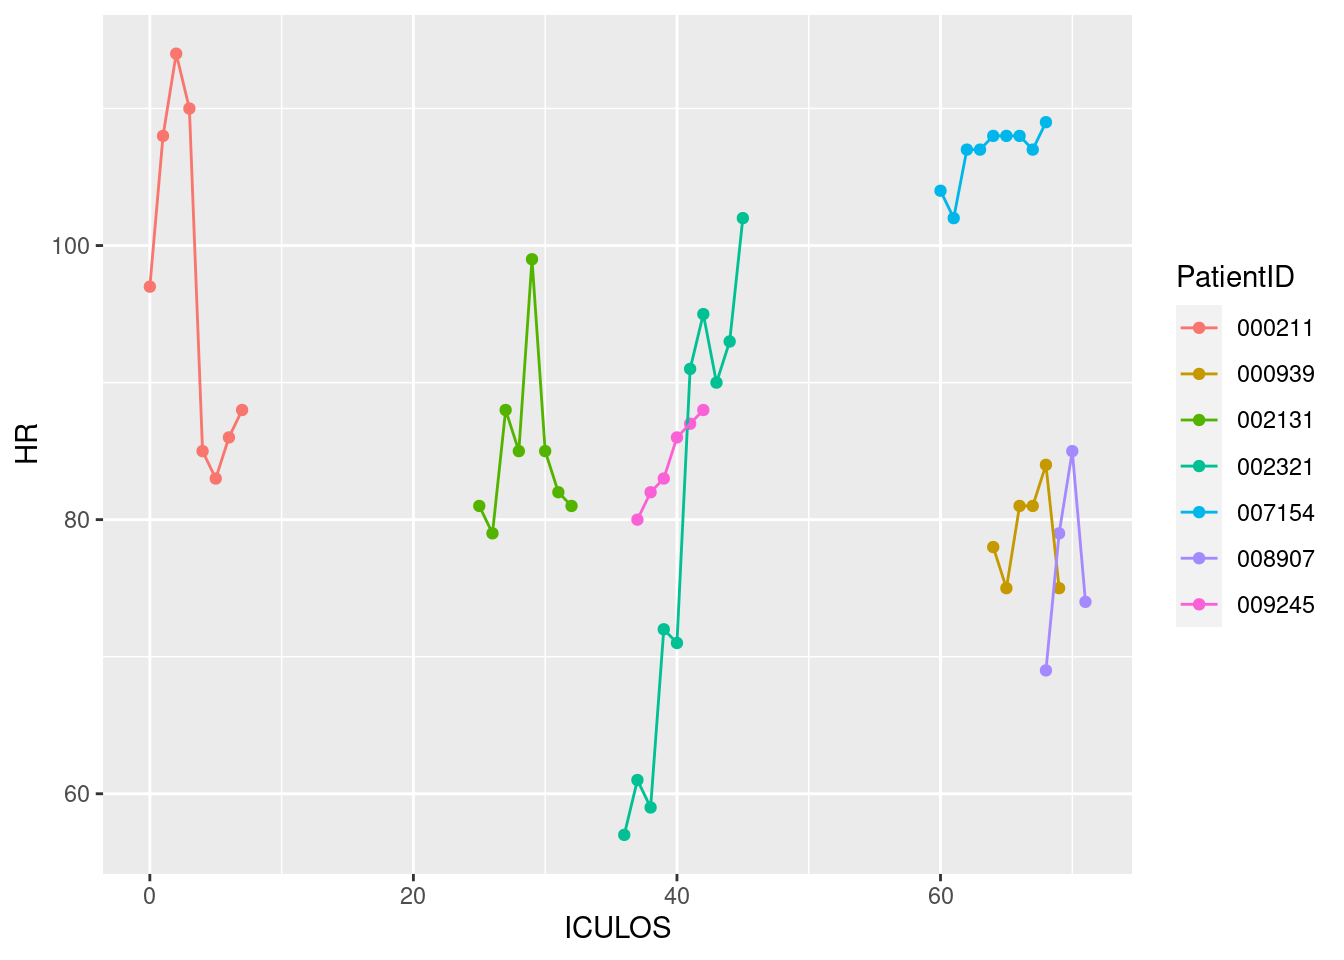
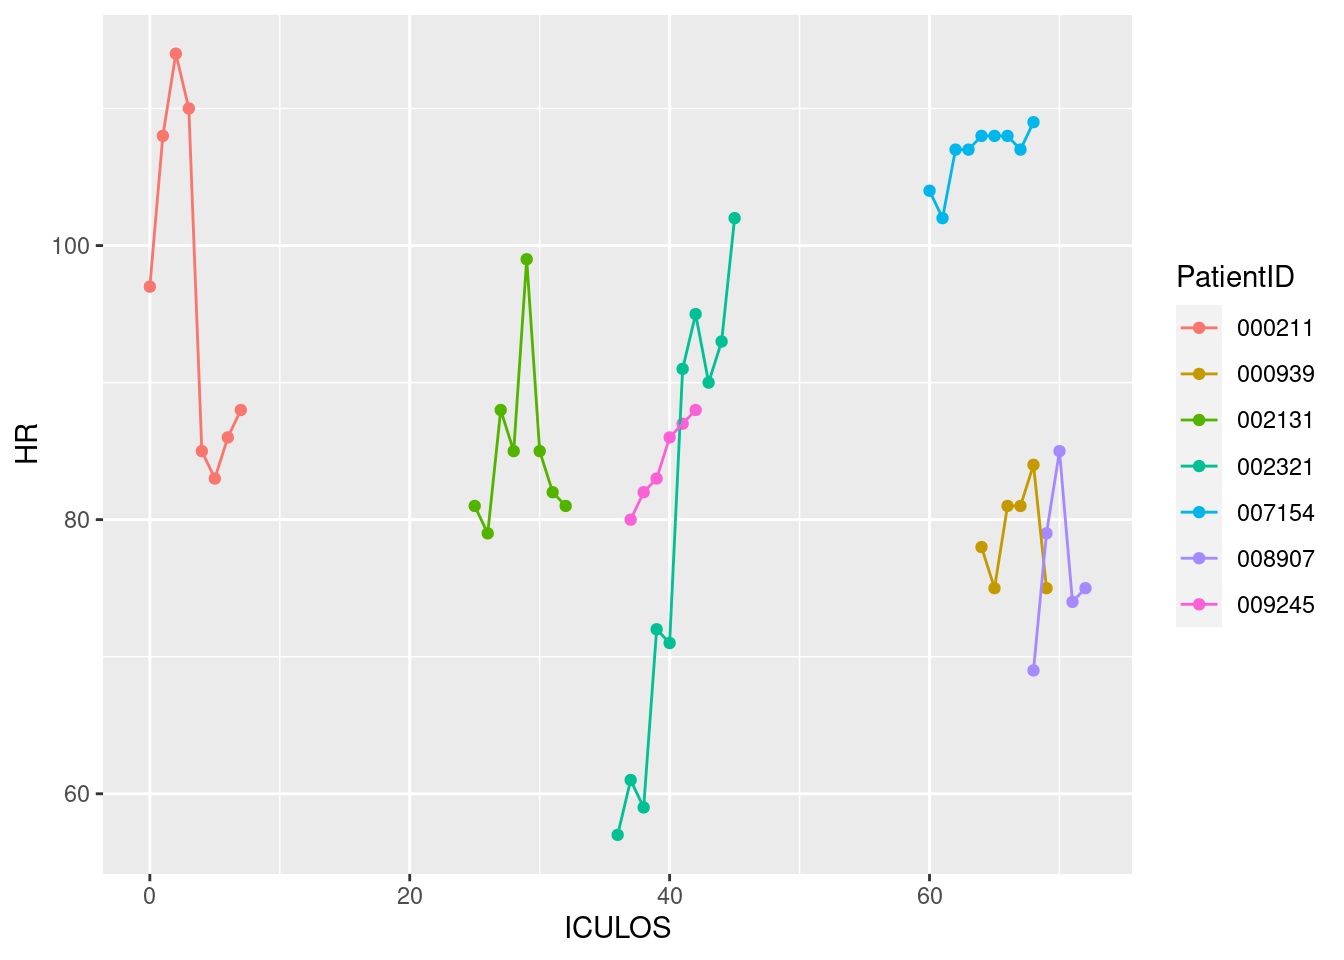
Updated report

diff --git a/a7qmd.html b/a7qmd.html
@@ -80,7 +80,7 @@ ul.task-list li input[type="checkbox"] {
 <h2 class="anchored" data-anchor-id="current-date-and-time">Current date and time</h2>
 <div class="cell">
 <div class="cell-output cell-output-stdout">
-<pre><code>[1] "2023-04-12 15:16:54 UTC"</code></pre>
+<pre><code>[1] "2023-04-12 16:21:54 UTC"</code></pre>
 </div>
 </div>
 </section>
@@ -106,9 +106,9 @@ ul.task-list li input[type="checkbox"] {
 </tr>
 <tr class="even">
 <td style="text-align: left;">000939</td>
-<td style="text-align: right;">75</td>
 <td style="text-align: right;">NA</td>
-<td style="text-align: right;">13</td>
+<td style="text-align: right;">NA</td>
+<td style="text-align: right;">NA</td>
 </tr>
 <tr class="odd">
 <td style="text-align: left;">002131</td>
@@ -130,8 +130,8 @@ ul.task-list li input[type="checkbox"] {
 </tr>
 <tr class="even">
 <td style="text-align: left;">008907</td>
-<td style="text-align: right;">74</td>
-<td style="text-align: right;">NA</td>
+<td style="text-align: right;">75</td>
+<td style="text-align: right;">36</td>
 <td style="text-align: right;">18</td>
 </tr>
 <tr class="odd">
@@ -217,9 +217,9 @@ ul.task-list li input[type="checkbox"] {
 </tr>
 <tr class="even">
 <td style="text-align: left;">000939</td>
-<td style="text-align: right;">-9</td>
 <td style="text-align: right;">NA</td>
-<td style="text-align: right;">-1</td>
+<td style="text-align: right;">NA</td>
+<td style="text-align: right;">NA</td>
 </tr>
 <tr class="odd">
 <td style="text-align: left;">001080</td>
@@ -427,7 +427,7 @@ ul.task-list li input[type="checkbox"] {
 </tr>
 <tr class="odd">
 <td style="text-align: left;">008907</td>
-<td style="text-align: right;">-11</td>
+<td style="text-align: right;">1</td>
 <td style="text-align: right;">NA</td>
 <td style="text-align: right;">0</td>
 </tr>
